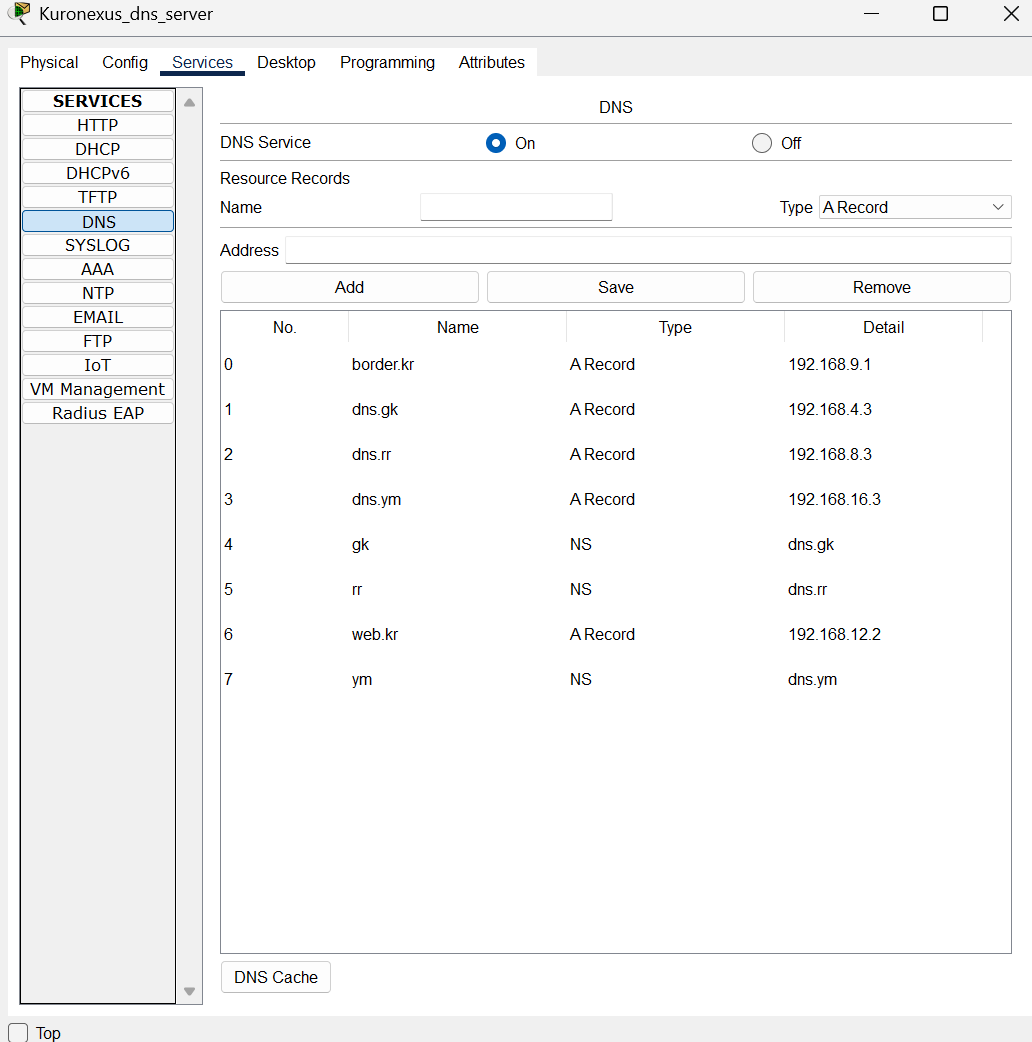
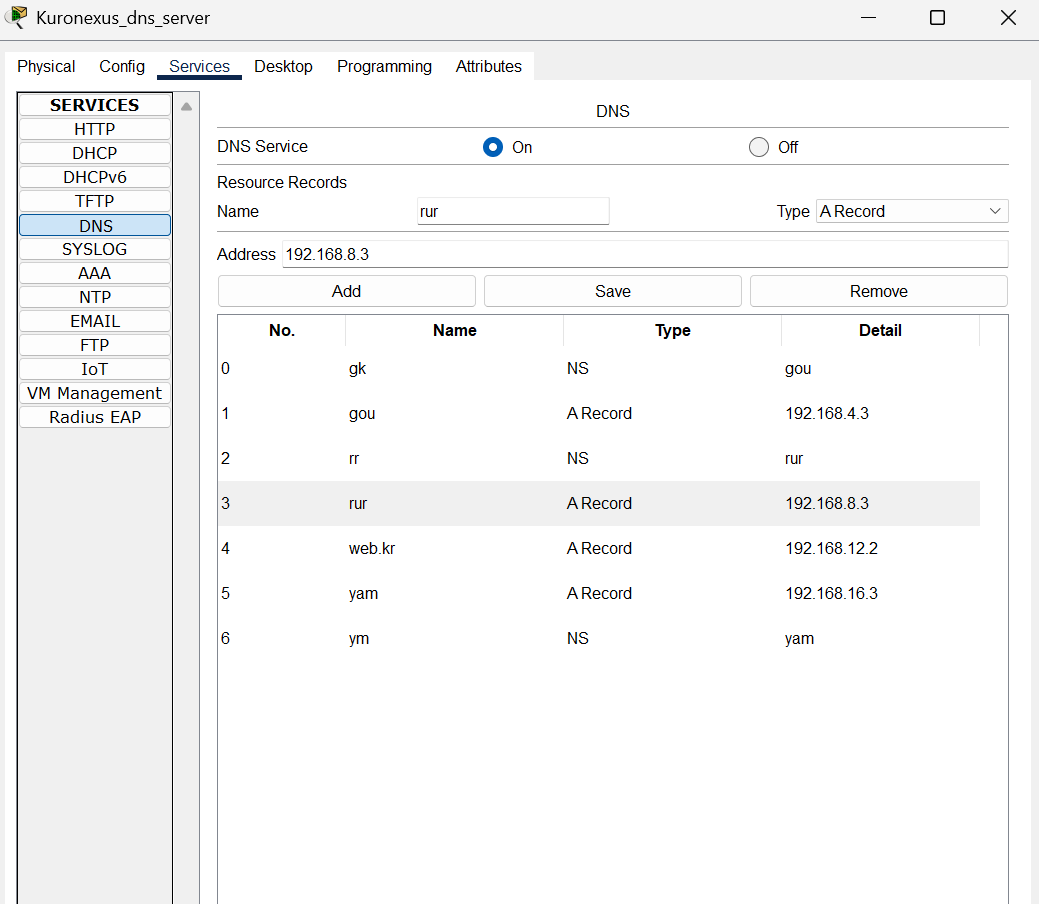
fix: :ambulance: DNS configs

diff --git a/cpt/ACL.md b/cpt/ACL.md
@@ -32,6 +32,7 @@ Router(config-ext-nacl)#permit tcp any 192.168.4.0 0.0.0.255 eq 443
 Router(config-ext-nacl)#permit udp any 192.168.4.0 0.0.0.255 eq 53
 Router(config-ext-nacl)#permit udp any 192.168.4.0 0.0.0.255 eq 67
 Router(config-ext-nacl)#permit udp any 192.168.4.0 0.0.0.255 eq 68
+Router(config-ext-nacl)#permit udp any eq domain 192.168.4.0 0.0.0.255
 Router(config-ext-nacl)#exit
 Router(config)#ip access-list extended ent_out
 Router(config-ext-nacl)#permit ospf any any
@@ -79,6 +80,7 @@ Router(config-ext-nacl)# permit tcp any 192.168.8.0 0.0.0.255 eq 443
 Router(config-ext-nacl)# permit udp any 192.168.8.0 0.0.0.255 eq 53
 Router(config-ext-nacl)# permit udp any 192.168.8.0 0.0.0.255 eq 67
 Router(config-ext-nacl)# permit udp any 192.168.8.0 0.0.0.255 eq 68
+Router(config-ext-nacl)# permit udp any eq domain 192.168.8.0 0.0.0.255
 Router(config-ext-nacl)#ip access-list extended ent_out
 Router(config-ext-nacl)# permit ospf any any
 Router(config-ext-nacl)# permit udp host 192.168.8.4 any eq 67
@@ -124,6 +126,7 @@ Router(config-ext-nacl)# permit tcp any 192.168.12.0 0.0.0.255 eq 443
 Router(config-ext-nacl)# permit udp any 192.168.12.0 0.0.0.255 eq 53
 Router(config-ext-nacl)# permit udp any 192.168.12.0 0.0.0.255 eq 67
 Router(config-ext-nacl)# permit udp any 192.168.12.0 0.0.0.255 eq 68
+Router(config-ext-nacl)# permit udp any eq domain 192.168.12.0 0.0.0.255
 Router(config-ext-nacl)#ip access-list extended ent_out
 Router(config-ext-nacl)# permit ospf any any
 Router(config-ext-nacl)# permit udp host 192.168.12.4 any eq 67
@@ -169,6 +172,7 @@ Router(config-ext-nacl)# permit tcp any 192.168.16.0 0.0.0.255 eq 443
 Router(config-ext-nacl)# permit udp any 192.168.16.0 0.0.0.255 eq 53
 Router(config-ext-nacl)# permit udp any 192.168.16.0 0.0.0.255 eq 67
 Router(config-ext-nacl)# permit udp any 192.168.16.0 0.0.0.255 eq 68
+Router(config-ext-nacl)#permit udp any eq domain 192.168.16.0 0.0.0.255
 Router(config-ext-nacl)#ip access-list extended ent_out
 Router(config-ext-nacl)# permit ospf any any
 Router(config-ext-nacl)# permit udp host 192.168.16.4 any eq 67

diff --git a/cpt/DNS.md b/cpt/DNS.md
@@ -1,6 +1,8 @@
 # DNS
 
-## Expected Configuration: 
+## Configuration: 
+
+### NOTE: SET IP DNS SERVER TO 0.0.0.0 ON EACH DNS SERVER
 
 ### Gokouloryn DNS Server
 
@@ -18,7 +20,7 @@
 
 ![DNS_ym.png](/cpt/DNS_conf/DNS_ym.png)
 
-#### Too buggy and breaks simulation (like random ICMP traffics idk), so listing every domain in each DNS
+#### Too buggy and breaks simulation (like random ICMP traffics idk), so listing every domain in each DNS more stable
 
 ![DNS_ym.png](/cpt/DNS_conf/DNS_ym.png)
 
